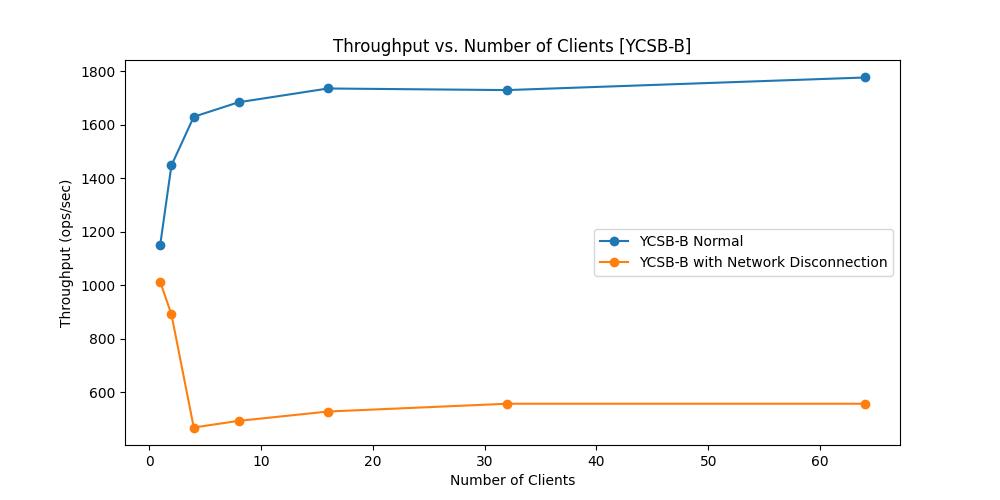
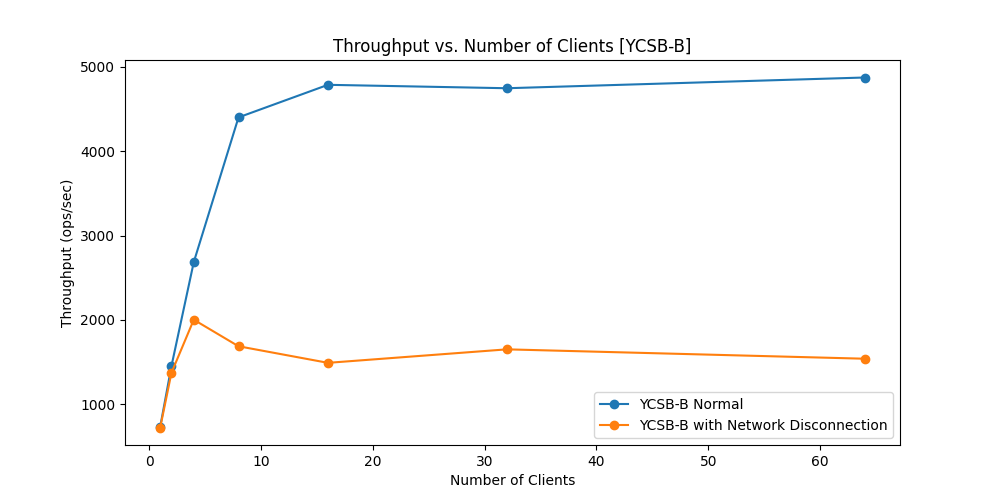
display phase

diff --git a/plot/plot.py b/plot/plot.py
@@ -2,9 +2,14 @@ import matplotlib.pyplot as plt
 
 # Data points for YCSB-A
 x_a = [1, 2, 4, 8, 16, 32, 64]
-y_a = [138.19, 163.06, 168.22, 168.01, 170.17, 171.75, 172.36]
+y_a= [259.17,407.36,461.94,457.64,461.21,480.75,483.78]
+
+
 x_a_d = [1, 2, 4, 8, 16, 32, 64]
-y_a_d = [187.87, 62.94, 45.53, 43.08, 50.51, 53.36, 54.54]
+
+y_a_d= [284.72,425.24,158.85,179.08,175.79,175.48,162.78]
+
+
 
 # Creating the plot for YCSB-A
 plt.figure(figsize=(10, 5))
@@ -19,9 +24,12 @@ plt.close()
 
 # Data points for YCSB-B
 x_b = [1, 2, 4, 8, 16, 32, 64]
-y_b = [1151.76, 1447.76, 1629.73, 1683.84, 1735.37, 1729.37, 1776.40]
+
+y_b= [732.01,1448.38,2684.53,4401.24,4787.74,4747.18,4874.50]
+
+
 x_b_d = [1, 2, 4, 8, 16, 32, 64]
-y_b_d = [1012.59, 891.78, 468.95, 493.71, 528.60, 557.69, 557.69]
+y_b_d  = [722.34,1369.26,2001.08,1686.10,1489.43,1649.50,1538.28]
 
 # Creating the plot for YCSB-B
 plt.figure(figsize=(10, 5))
@@ -36,9 +44,11 @@ plt.close()
 
 # Data points for YCSB-C
 x_c = [1, 2, 4, 8, 16, 32, 64]
-y_c = [2299.35, 4824.97, 7766.40, 13626.49, 19936.87, 22872.54, 34586.98]
+y_c = [944.33,1863.22,3653.79,7282.32,13235.30,19410.69,28014.23]
+
 x_c_d = [1, 2, 4, 8, 16, 32, 64]
-y_c_d = [2490.84, 4968.88, 8424.45, 14066.70, 20734.94, 23600.02, 37699.64]
+y_c_d = [968.66,1822.50,3636.08,6972.39,13143.13,19396.28,27571.92]
+
 
 # Creating the plot for YCSB-C
 plt.figure(figsize=(10, 5))

diff --git a/replica/replica.go b/replica/replica.go
@@ -2,7 +2,7 @@ package main
 
 import (
 	"container/heap"
-	//"fmt"
+	"fmt"
 	"log"
 	"net"
 	"os"
@@ -146,7 +146,7 @@ func main() {
 		phaseSum += phases + 1
 		// fmt.Println("null cnt:", nullCnt)
 		// fmt.Println("non-null percentage: ", (float64(seq-nullCnt)/float64(seq))*100)
-		//fmt.Println("phase average: ", float32(phaseSum)/float32(seq))
+		fmt.Println("phase average: ", float32(phaseSum)/float32(seq))
 
 	}
 }

diff --git a/replica/data.go b/replica/data.go
@@ -164,6 +164,13 @@ func handleConnection(conn net.Conn) {
 	defer conn.Close()
 
 	for {
+
+		//if the connection is closed, return
+		_, err := conn.Read(make([]byte, 0))
+		if err != nil {
+			return
+		}
+
 		consensusData, err := receiveData(conn)
 		if err != nil {
 			return
